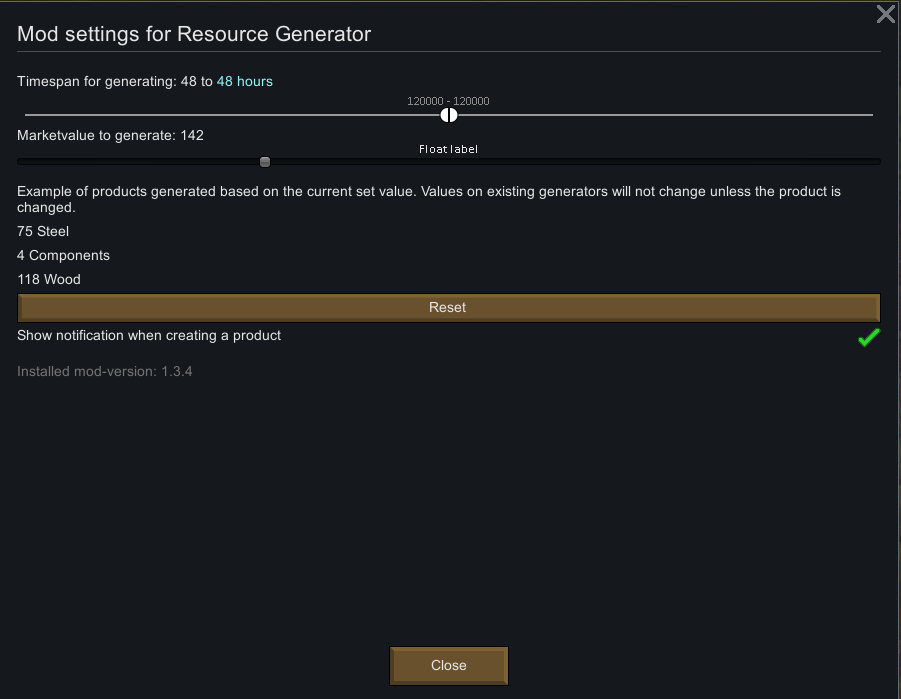
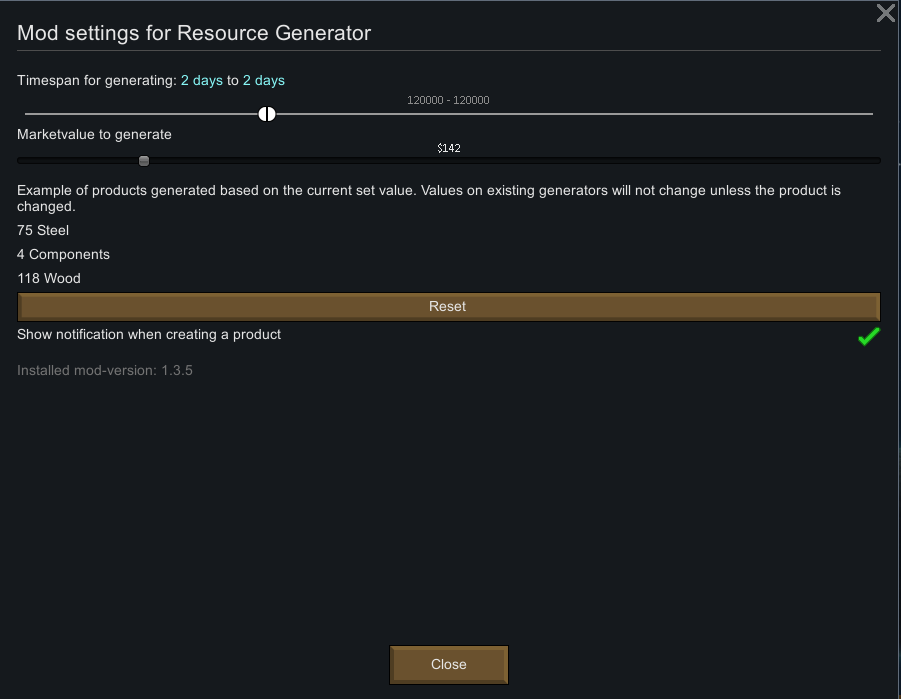
Increased the range of time and value in the mod-settings. Used DeepL to update translations for Russian

diff --git a/Source/ResourceGenerator/ResourceGeneratorMod.cs b/Source/ResourceGenerator/ResourceGeneratorMod.cs
@@ -73,16 +73,15 @@ internal class ResourceGeneratorMod : Mod
         listing_Standard.Begin(rect);
         listing_Standard.Gap();
         listing_Standard.Label(
-            "ReGe.GenerationTime.label".Translate(
-                (int)Math.Round(Settings.GenerationTime.min / (float)GenDate.TicksPerHour),
-                (int)Math.Round(Settings.GenerationTime.max / (float)GenDate.TicksPerHour)), -1f,
+            "ReGe.GenerationTime.label".Translate(Settings.GenerationTime.min.ToStringTicksToPeriod(),
+                Settings.GenerationTime.max.ToStringTicksToPeriod()), -1f,
             "ReGe.GenerationTime.tooltip".Translate());
-        listing_Standard.IntRange(ref Settings.GenerationTime, 1, 240000);
-        listing_Standard.Label("ReGe.GenerationValue.label".Translate(Settings.GenerationValue), -1,
+        listing_Standard.IntRange(ref Settings.GenerationTime, 1, 7 * GenDate.TicksPerDay);
+        listing_Standard.Label("ReGe.GenerationValue.label".Translate(), -1,
             "ReGe.GenerationValue.tooltip".Translate());
         Settings.GenerationValue = Widgets.HorizontalSlider(listing_Standard.GetRect(20), Settings.GenerationValue, 0,
-            500f,
-            false, "Float label", null, null, 1);
+            1000f,
+            false, Settings.GenerationValue.ToStringMoney(), null, null, 1);
         listing_Standard.Gap();
         listing_Standard.Label("ReGe.ExampleTitle.label".Translate());
         listing_Standard.Label(
